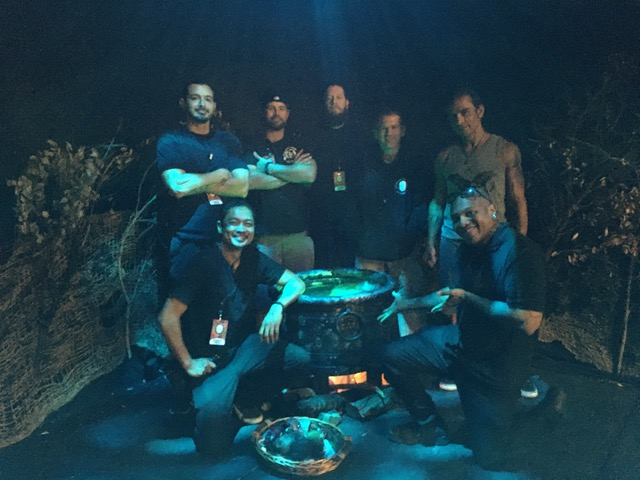
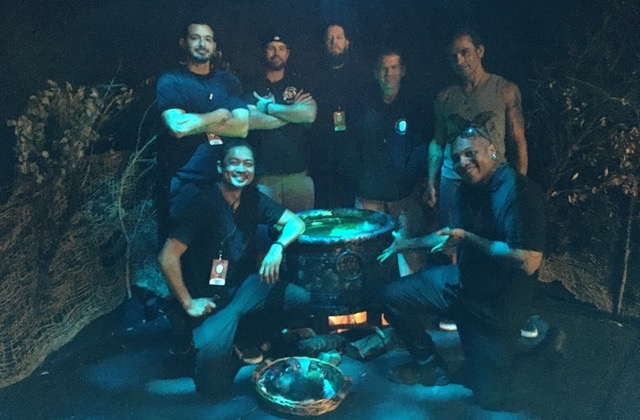
Testimonial
Testimonial

diff --git a/The-Shakespeare-Festival-LA.html b/The-Shakespeare-Festival-LA.html
@@ -197,7 +197,7 @@
 
                 </div>
                 <div class="col-lg-6">
-                    <img class="img-fluid" src="img/SCLA_LongLogoBLCK.jpg" alt="Shakespeare Center of Los Angeles Logo">
+                    <img class="img-fluid" src="img/SCLA-White-Logo.jpg" alt="Shakespeare Center of Los Angeles Logo">
                 </div>
 
                 <div class="col-lg-3">
@@ -209,7 +209,7 @@
             <div class="row">
 
                 <div class="col-lg-6">
-                    <img class="img-fluid" src="img/Testimonial-SFLA.png" width="100%"
+                    <img class="img-fluid" src="img/SCLA-T.jpg" width="100%"
                         alt="Shakespeare Center of Los Angeles Testimonials">
                 </div>
                 <div class="col-lg-6">
